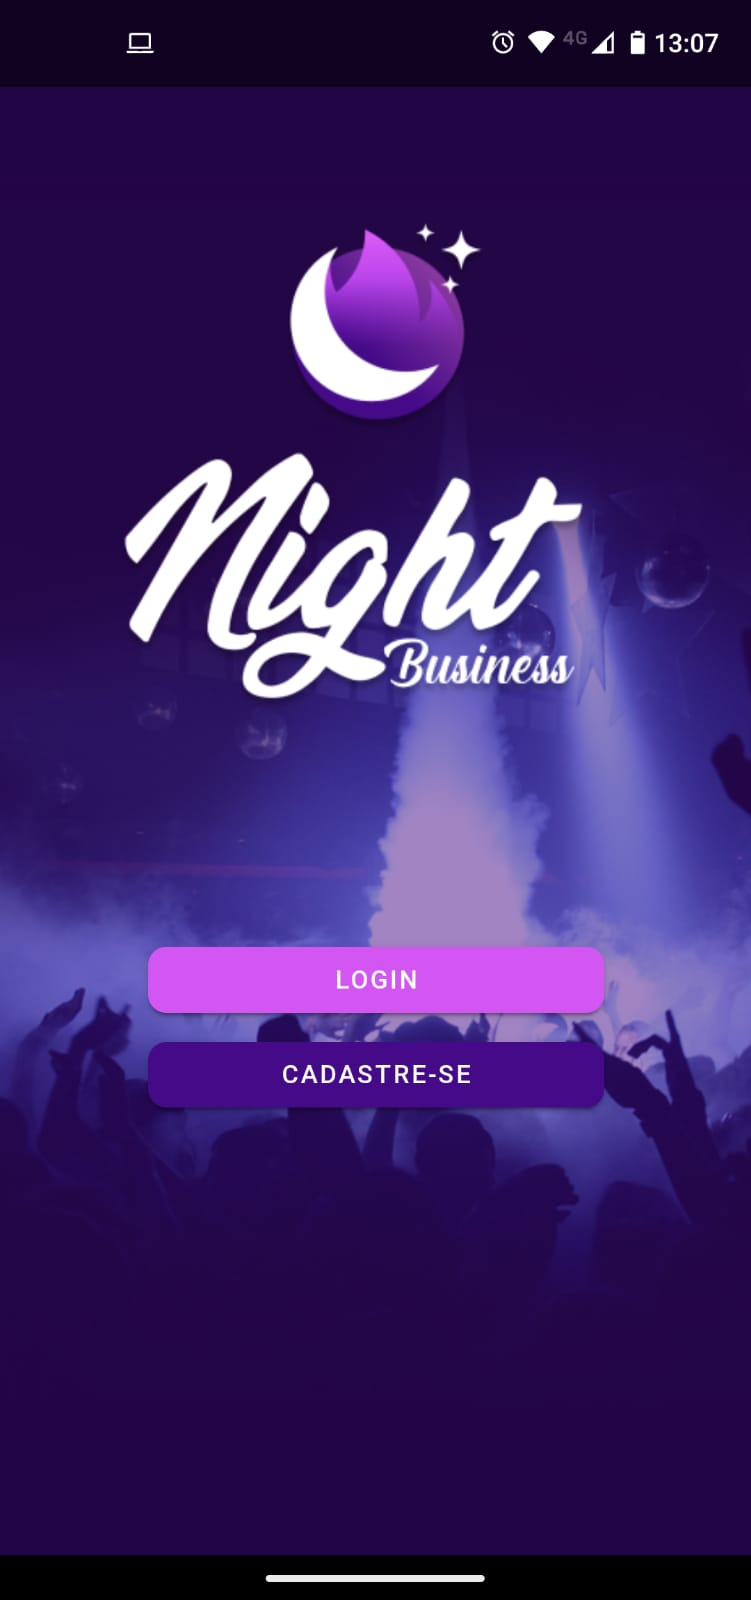
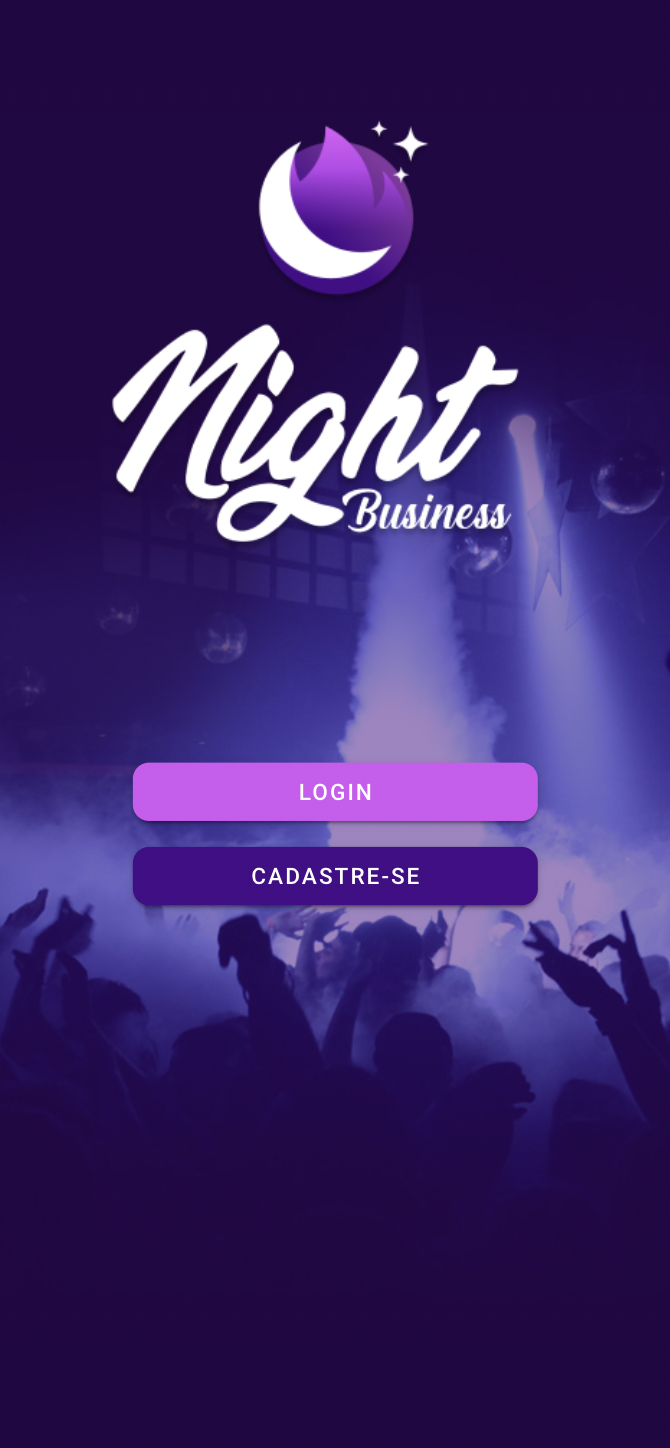
rewrite

diff --git a/index.html b/index.html
@@ -156,7 +156,7 @@
                        <path d="M1756.4,1322.1H45.7A45.75,45.75,0,0,1,0,1276.4V45.7A45.75,45.75,0,0,1,45.7,0H1756.4a45.75,45.75,0,0,1,45.7,45.7V1276.4A45.69,45.69,0,0,1,1756.4,1322.1Z"></path>
                        <path d="M1717.5,1265.4H84.6A29.6,29.6,0,0,1,55,1235.8V86.4A29.68,29.68,0,0,1,84.6,56.7H1717.4A29.6,29.6,0,0,1,1747,86.3V1235.7A29.53,29.53,0,0,1,1717.5,1265.4Z" ></path>
                        <foreignObject x="54" y="55" width="1693" height="1200" class="st3" style="border-radius: 38px;">
-                         <img  style="width: 100%; height:90%" src="./assets/tributarioCoplan.png"/>
+                         <img  style="width: 100%; height:90%" src="./assets/nightBusiness.png"/>
                         </foreignObject></svg>
                         <svg viewBox="0 0 552.1 1086.1" class="portfolio-item-card-mobile"><defs>
                            <linearGradient id="Gradiente_sem_nome_4" y1="-781.9" x2="552.1" y2="-781.9" gradientTransform="translate(0 1324.95)" gradientUnits="userSpaceOnUse">
@@ -167,14 +167,14 @@
                         <path d="M525.2,1086.1H26.9A26.84,26.84,0,0,1,0,1059.2V26.9A26.84,26.84,0,0,1,26.9,0H525.2a26.84,26.84,0,0,1,26.9,26.9V1059.3A26.82,26.82,0,0,1,525.2,1086.1Z" class="cls-7"></path>
                         <path d="M495.4,1034.1H56.8a16.41,16.41,0,0,1-16.4-16.4V68.5A16.41,16.41,0,0,1,56.8,52.1H495.4a16.41,16.41,0,0,1,16.4,16.4v949.2A16.41,16.41,0,0,1,495.4,1034.1Z" class="cls-8"></path>
                         <foreignObject x="40" y="44" width="472" height="995"  style="border-radius: 22px;">
-                           <img  style="width: 100%; height:100%" src="./assets/tributarioSalvadorMobile.png" />
+                           <img  style="width: 100%; height:100%" src="./assets/NightBusinessMobile.png" />
                         </foreignObject>
                      </svg>
                        
                      </div>
                </div>
                <a>
-               <span class="name">Sistema Tributário Prefeitura de Salvador-BA</span></a> 
+               <span class="name">Night Business</span></a> 
                <hr>  
             </div>
             <div id="jobs">
@@ -218,6 +218,45 @@
                <a href="https://nightpromoter.nightapp.me/" >
                <span class="name">JMD Quality Service</span></a>   
                <hr>
+            </div>
+            <div id="jobs">
+               <div>
+                  <div class="content-cards">
+                     <svg viewBox="0 0 1802.1 1514.8" class="portfolio-item-card-desktop">
+                       <defs>
+                          <linearGradient x1="901.05" y1="-86.27" x2="901.05" y2="147.72" gradientTransform="translate(0 1324.95)" gradientUnits="userSpaceOnUse">
+                           <stop offset="0" stop-color="#2b2550"></stop>
+                            <stop offset="0.03" stop-color="#170f2b"></stop>
+                            <stop offset="1" stop-color="#3c3677"></stop></linearGradient>
+                         <linearGradient x1="490.8" y1="151.35" x2="1311.4" y2="151.35" gradientTransform="translate(0 1324.95)" gradientUnits="userSpaceOnUse">
+                           <stop offset="0" stop-color="#2b2550"></stop>
+                           <stop offset="1" stop-color="#3c3677"></stop></linearGradient>
+                         <linearGradient x1="0" y1="-663.9" x2="1802.1" y2="-663.9" xlink:href="#Gradiente_sem_nome_3"></linearGradient>
+                           
+                         </defs><polygon points="1105.5 1478.4 696.6 1478.4 780.4 1096 1021.7 1096 1105.5 1478.4"></polygon><path d="M1262.4,1437.8H539.7a48.91,48.91,0,0,0-48.9,48.9v28.1h820.6v-28.1A49.06,49.06,0,0,0,1262.4,1437.8Z"></path>
+                       <path d="M1756.4,1322.1H45.7A45.75,45.75,0,0,1,0,1276.4V45.7A45.75,45.75,0,0,1,45.7,0H1756.4a45.75,45.75,0,0,1,45.7,45.7V1276.4A45.69,45.69,0,0,1,1756.4,1322.1Z"></path>
+                       <path d="M1717.5,1265.4H84.6A29.6,29.6,0,0,1,55,1235.8V86.4A29.68,29.68,0,0,1,84.6,56.7H1717.4A29.6,29.6,0,0,1,1747,86.3V1235.7A29.53,29.53,0,0,1,1717.5,1265.4Z" ></path>
+                       <foreignObject x="54" y="55" width="1693" height="1200" class="st3" style="border-radius: 38px;">
+                         <img  style="width: 100%; height:90%" src="./assets/tributarioCoplan.png"/>
+                        </foreignObject></svg>
+                        <svg viewBox="0 0 552.1 1086.1" class="portfolio-item-card-mobile"><defs>
+                           <linearGradient id="Gradiente_sem_nome_4" y1="-781.9" x2="552.1" y2="-781.9" gradientTransform="translate(0 1324.95)" gradientUnits="userSpaceOnUse">
+                              <stop offset="0" stop-color="#2b2550"></stop>
+                              <stop offset="1" stop-color="#3c3677"></stop>
+                           </linearGradient>
+                        </defs>
+                        <path d="M525.2,1086.1H26.9A26.84,26.84,0,0,1,0,1059.2V26.9A26.84,26.84,0,0,1,26.9,0H525.2a26.84,26.84,0,0,1,26.9,26.9V1059.3A26.82,26.82,0,0,1,525.2,1086.1Z" class="cls-7"></path>
+                        <path d="M495.4,1034.1H56.8a16.41,16.41,0,0,1-16.4-16.4V68.5A16.41,16.41,0,0,1,56.8,52.1H495.4a16.41,16.41,0,0,1,16.4,16.4v949.2A16.41,16.41,0,0,1,495.4,1034.1Z" class="cls-8"></path>
+                        <foreignObject x="40" y="44" width="472" height="995"  style="border-radius: 22px;">
+                           <img  style="width: 100%; height:100%" src="./assets/tributarioSalvadorMobile.png" />
+                        </foreignObject>
+                     </svg>
+                       
+                     </div>
+               </div>
+               <a>
+               <span class="name">Sistema Tributário Prefeitura de Salvador-BA</span></a> 
+               <hr>  
             </div>
             <div id="jobs">
                <div>
